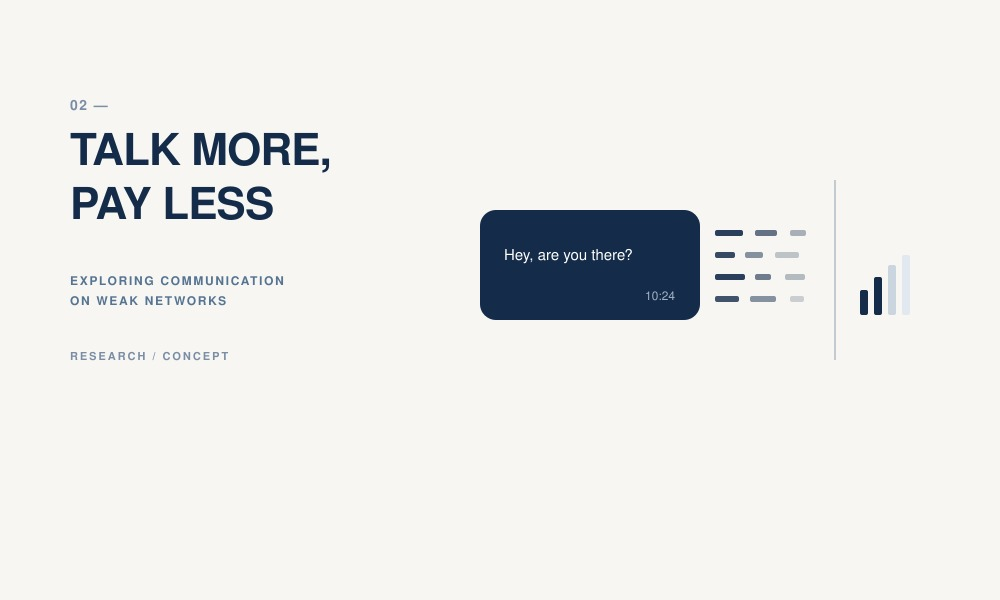
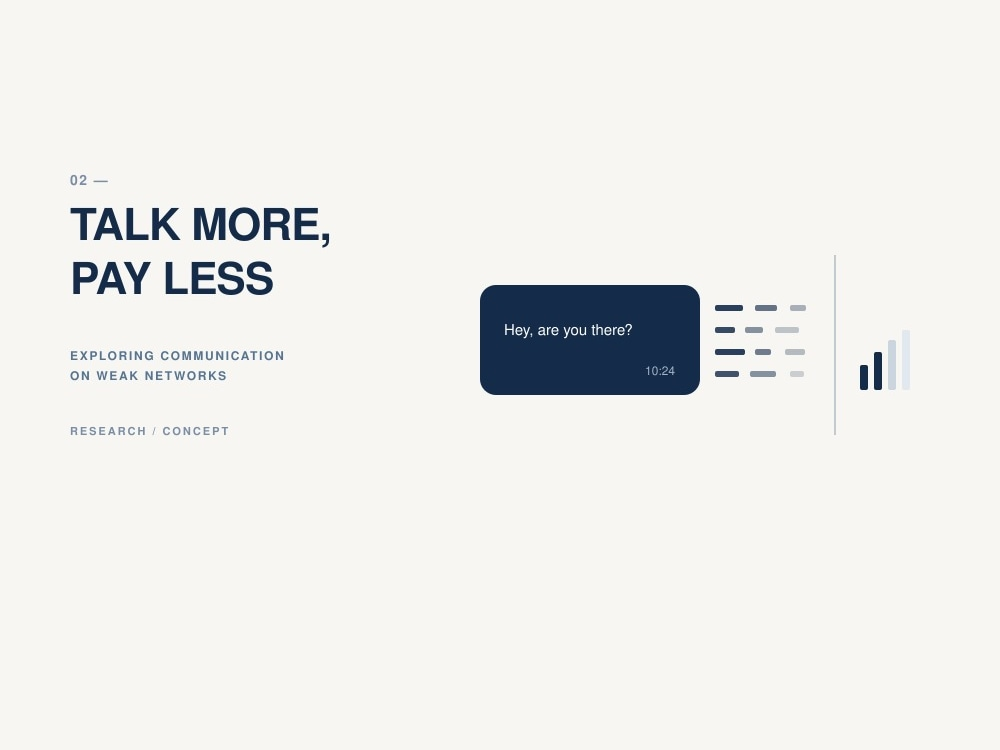
Fixed ai studios image and emoji and texts mistakes

diff --git a/src/components/CaseStudy.tsx b/src/components/CaseStudy.tsx
@@ -171,7 +171,19 @@ export const CaseStudy: React.FC<CaseStudyProps> = ({
                     className="inline-flex items-center gap-2 px-5 py-3 bg-[#142B4A] hover:bg-[#111111] text-white text-xs uppercase tracking-[0.12em] font-semibold transition-colors rounded-xs focus:outline-none focus-visible:ring-2 focus-visible:ring-[#142B4A]"
                   >
                     <span>{sections.artifactLink.label}</span>
-                    <span aria-hidden="true">↗</span>
+                    <span aria-hidden="true">
+                      <svg
+                        className="w-3 h-3"
+                        viewBox="0 0 24 24"
+                        fill="none"
+                        stroke="currentColor"
+                        strokeWidth="2"
+                        strokeLinecap="round"
+                        strokeLinejoin="round"
+                      >
+                        <path d="M7 17 17 7M8 7h9v9" />
+                      </svg>
+                    </span>
                   </a>
                 </div>
               )}

diff --git a/src/components/Hero.tsx b/src/components/Hero.tsx
@@ -45,14 +45,8 @@ export const Hero: React.FC = () => {
           <div className="lg:col-span-5 relative flex items-end justify-center lg:justify-end">
             <div className="relative w-full max-w-[420px] sm:max-w-[460px] lg:max-w-none flex items-end justify-center">
               <div
-                className="w-full relative overflow-hidden"
-                style={{
-                  height: 'clamp(420px, 48vw, 620px)',
-                  maskImage:
-                    'linear-gradient(to right, transparent, black 12%, black 100%)',
-                  WebkitMaskImage:
-                    'linear-gradient(to right, transparent, black 12%, black 100%)',
-                }}
+                className="hero-portrait w-full relative overflow-hidden"
+                style={{ height: 'clamp(420px, 48vw, 620px)' }}
               >
                 {!imageError ? (
                   <img

diff --git a/src/data/projects.ts b/src/data/projects.ts
@@ -94,7 +94,7 @@ export const projectsData: Project[] = [
     subtitle: "Independent exploration of critical thinking",
     type: "Research",
     image: "assets/08-Critical-thinking-project-visual.png",
-    alt: "Critical Thinking Study visual showing printed research paper pages, notebook, and pen",
+    alt: "Critical Thinking Study visual showing printed research paper pages, a notebook, pen, and laptop",
     description: "An academic research exploration into critical thinking, its barriers, its role in development, and possible pathways forward.",
     caseStudyUrl: "#/work/critical-thinking",
     documentUrl: "assets/critical-thinking-paper.pdf",

diff --git a/src/index.css b/src/index.css
@@ -25,6 +25,11 @@
     }
   }
 
+  .hero-portrait img {
+    mask-image: linear-gradient(to left, black 55%, transparent 100%);
+    -webkit-mask-image: linear-gradient(to left, black 55%, transparent 100%);
+  }
+
   @media (prefers-reduced-motion: reduce) {
     html {
       scroll-behavior: auto !important;

diff --git a/src/components/Skills.tsx b/src/components/Skills.tsx
@@ -7,6 +7,9 @@ export const Skills: React.FC = () => {
       items: [
         'AI-assisted development',
         'Python',
+        'HTML',
+        'CSS',
+        'JavaScript',
         'Product design',
         'Graphic design',
         'Web development',

diff --git a/src/components/AboutMe.tsx b/src/components/AboutMe.tsx
@@ -9,7 +9,7 @@ export const AboutMe: React.FC = () => {
       detail: 'BSc Logistics & Supply Chain Management',
     },
     {
-      institution: 'KNUST YES Scholar',
+      institution: 'KENNEDY-LUGAR YES Scholar',
       detail: '10 months',
     },
     {
